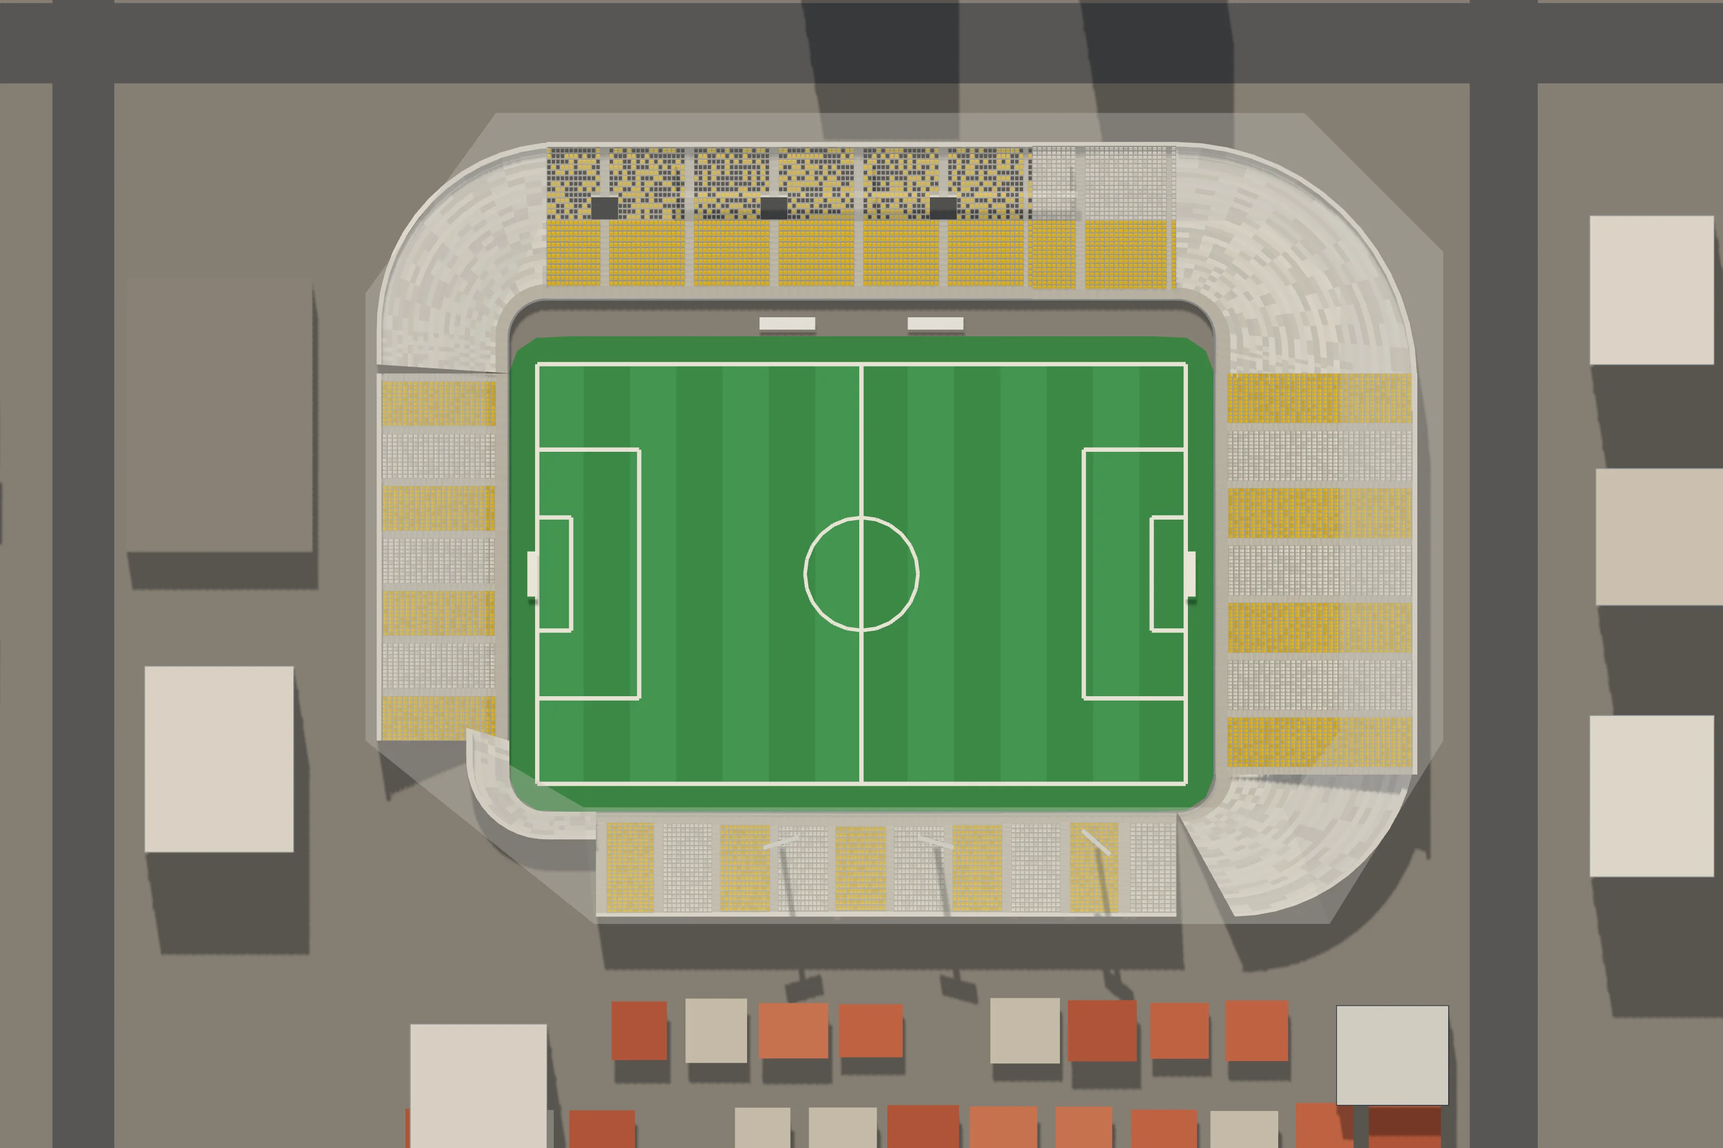
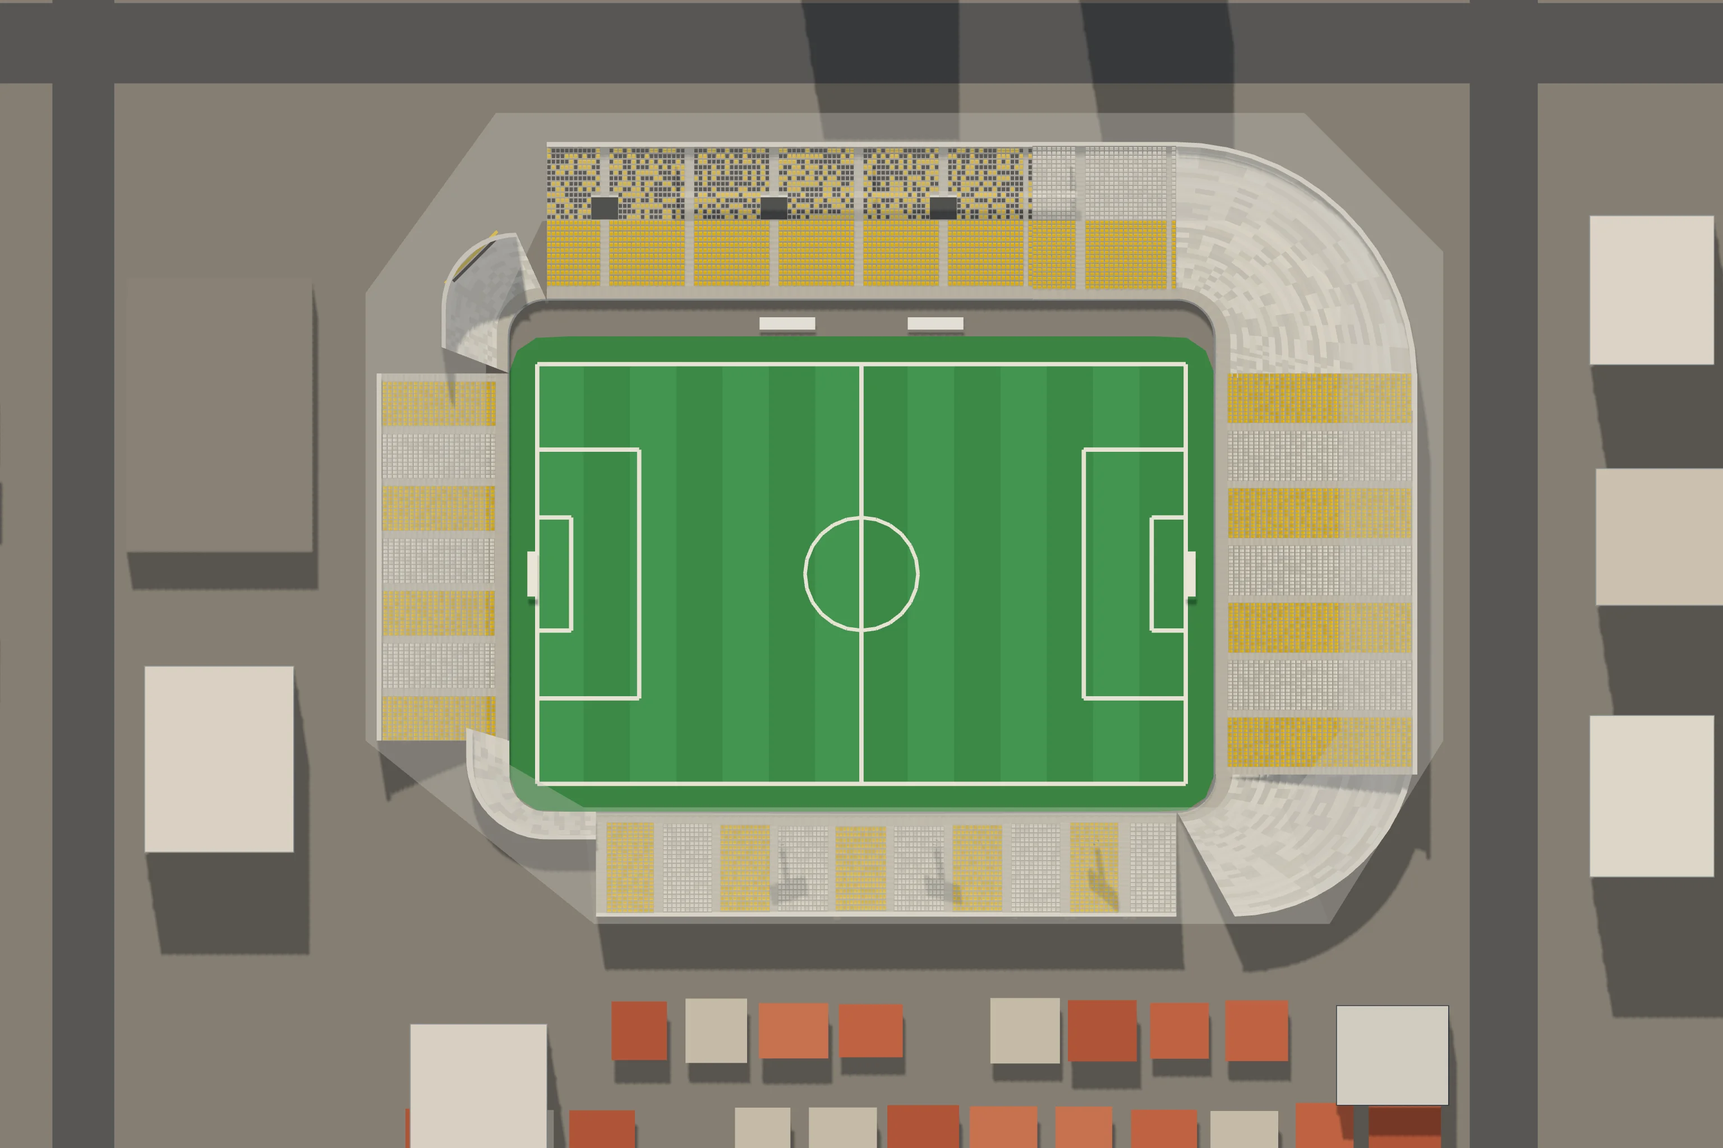
Heriberto Hülse: os refletores nascem do telhado; o canto menor ganha a parede e o telão
Claude-Session: https://claude.ai/code/session_019hwwMAyyP7ZAvyq6wYTetr

diff --git a/cenario3d/planta.html b/cenario3d/planta.html
@@ -289,24 +289,24 @@ button:focus-visible, input:focus-visible { outline: 2px solid var(--selecao); o
 
 <script type="module">
 import * as THREE from 'https://cdn.jsdelivr.net/npm/three@0.160.0/build/three.module.min.js';
-import { planoDaCasa, montarCasa, juntarBlocos, lugarDoDecalque, placasDoLote, segmentosDoMuro, carrosDoEstacionamento, portaoDoEstacionamento } from './js/casas3d.js?v=edb7f8e8c8';
-import { montarModelos } from './js/modelos3d.js?v=edb7f8e8c8';
-import { moldeDaPeca, comTransformador } from './js/props3d.js?v=edb7f8e8c8';
-import { ATLAS } from './js/modelos_atlas.js?v=edb7f8e8c8';
-import { Construtor, sorteio } from './js/construtor3d.js?v=edb7f8e8c8';
-import { gerarProposta, MAPAS, MAPA_DO_PORTE, RUA, LONGE_DO_ESTADIO_M, cisaoDaPraca, VAO_CIDADES_M, PRAIA_A_MAIS } from './js/proposta.js?v=edb7f8e8c8';
-import { montarSede, nivelQueCabe } from './js/sede3d.js?v=edb7f8e8c8';
-import { onibus as onibusDetalhe, juntar as juntarDetalhe } from './js/detalhe3d.js?v=edb7f8e8c8';
-import { montarLoteDeVeraneio, plantaDoLote, festaNoMundo, noMundoDoLote, cenaDaFesta, detalheDaCasaDaFesta } from './js/veraneio3d.js?v=edb7f8e8c8';
-import { montarCaravana, cenaDaCaravana } from './js/caravana3d.js?v=edb7f8e8c8';
-import { montarEstacao, montarTunel, montarCarro, TREM } from './js/metro3d.js?v=edb7f8e8c8';
-import { montarShopping, montarDelegacia, montarPraca, montarIgreja, montarEscola, montarHospital } from './js/equip3d.js?v=edb7f8e8c8';
-import { montarEquipAntigo, TIPOS_ANTIGOS } from './js/equip_antigo3d.js?v=edb7f8e8c8';
-import { PECAS_PRAIA, montarPecaDaPraia } from './js/praia3d.js?v=edb7f8e8c8';
-import { ESPECIES_LP, FLORA_LP, montarArvoreLowpoly, montarAsDez, facesDaArvore, especieLowpolyDe } from './js/arvores_lowpoly.js?v=edb7f8e8c8';
-import { plantarMato, montarMato, LONGE_M, DENSIDADE, LADRILHO_M } from './js/mato3d.js?v=edb7f8e8c8';
-import { ESTADIOS_JOGO, montarEstadioJogo, glbDoEstadio, cortarEstadio, plantaDoEstadio, modeloDaLotacao, nomeDoLetreiro, nomeComAcento, marcaDoEstadio, BOCAS_DOS_PORTOES, BILHETERIAS_DA_RUA } from './js/estadios3d.js?v=edb7f8e8c8';
-import { PECAS_AMBULANTES, montarAmbulante } from './js/ambulantes3d.js?v=edb7f8e8c8';
+import { planoDaCasa, montarCasa, juntarBlocos, lugarDoDecalque, placasDoLote, segmentosDoMuro, carrosDoEstacionamento, portaoDoEstacionamento } from './js/casas3d.js?v=bd4c5336a1';
+import { montarModelos } from './js/modelos3d.js?v=bd4c5336a1';
+import { moldeDaPeca, comTransformador } from './js/props3d.js?v=bd4c5336a1';
+import { ATLAS } from './js/modelos_atlas.js?v=bd4c5336a1';
+import { Construtor, sorteio } from './js/construtor3d.js?v=bd4c5336a1';
+import { gerarProposta, MAPAS, MAPA_DO_PORTE, RUA, LONGE_DO_ESTADIO_M, cisaoDaPraca, VAO_CIDADES_M, PRAIA_A_MAIS } from './js/proposta.js?v=bd4c5336a1';
+import { montarSede, nivelQueCabe } from './js/sede3d.js?v=bd4c5336a1';
+import { onibus as onibusDetalhe, juntar as juntarDetalhe } from './js/detalhe3d.js?v=bd4c5336a1';
+import { montarLoteDeVeraneio, plantaDoLote, festaNoMundo, noMundoDoLote, cenaDaFesta, detalheDaCasaDaFesta } from './js/veraneio3d.js?v=bd4c5336a1';
+import { montarCaravana, cenaDaCaravana } from './js/caravana3d.js?v=bd4c5336a1';
+import { montarEstacao, montarTunel, montarCarro, TREM } from './js/metro3d.js?v=bd4c5336a1';
+import { montarShopping, montarDelegacia, montarPraca, montarIgreja, montarEscola, montarHospital } from './js/equip3d.js?v=bd4c5336a1';
+import { montarEquipAntigo, TIPOS_ANTIGOS } from './js/equip_antigo3d.js?v=bd4c5336a1';
+import { PECAS_PRAIA, montarPecaDaPraia } from './js/praia3d.js?v=bd4c5336a1';
+import { ESPECIES_LP, FLORA_LP, montarArvoreLowpoly, montarAsDez, facesDaArvore, especieLowpolyDe } from './js/arvores_lowpoly.js?v=bd4c5336a1';
+import { plantarMato, montarMato, LONGE_M, DENSIDADE, LADRILHO_M } from './js/mato3d.js?v=bd4c5336a1';
+import { ESTADIOS_JOGO, montarEstadioJogo, glbDoEstadio, cortarEstadio, plantaDoEstadio, modeloDaLotacao, nomeDoLetreiro, nomeComAcento, marcaDoEstadio, BOCAS_DOS_PORTOES, BILHETERIAS_DA_RUA } from './js/estadios3d.js?v=bd4c5336a1';
+import { PECAS_AMBULANTES, montarAmbulante } from './js/ambulantes3d.js?v=bd4c5336a1';
 
 const $ = id => document.getElementById(id);
 const aviso = $('aviso');
@@ -323,25 +323,25 @@ function carregarScript(src) {
 }
 window.TO = window.TO || { dados: {} };
 try {
-  await carregarScript('dados/torcidas.js?v=edb7f8e8c8');
-  await carregarScript('dados/times.js?v=edb7f8e8c8');
-  await carregarScript('dados/cena_estadio.js?v=edb7f8e8c8');
-  await carregarScript('dados/cidades.js?v=edb7f8e8c8');
-  await carregarScript('dados/estadios.js?v=edb7f8e8c8');
-  await carregarScript('dados/escudos.js?v=edb7f8e8c8');
+  await carregarScript('dados/torcidas.js?v=bd4c5336a1');
+  await carregarScript('dados/times.js?v=bd4c5336a1');
+  await carregarScript('dados/cena_estadio.js?v=bd4c5336a1');
+  await carregarScript('dados/cidades.js?v=bd4c5336a1');
+  await carregarScript('dados/estadios.js?v=bd4c5336a1');
+  await carregarScript('dados/escudos.js?v=bd4c5336a1');
   /* o manifesto das faixas de verdade (a arte do dono, 29/09/2026): a arquibancada estende a da torcida */
-  await carregarScript('dados/faixas.js?v=edb7f8e8c8').catch(() => {});
+  await carregarScript('dados/faixas.js?v=bd4c5336a1').catch(() => {});
   /* O DOMÍNIO DOS BAIRROS (o dono, 30/09/2026): as sedes repetidas num
      bairro saem espalhadas (nos dados, na carga) e os bares ganham o
      bairro deles — o mesmo módulo do jogo (js/mundo/dominio.js) */
-  await carregarScript('js/dominio.js?v=edb7f8e8c8').catch(() => {});
+  await carregarScript('js/dominio.js?v=bd4c5336a1').catch(() => {});
 } catch (e) {
   aviso.textContent = 'A planta da cidade não carregou (' + e.message + '). Recarregue a página.';
   throw e;
 }
 /* os PNG dos escudos, embutidos (o montar.sh gera): sem o arquivo, o
    caminho vai direto pra img/escudos/ */
-await carregarScript('dados/escudos_embutidos.js?v=edb7f8e8c8').catch(() => {});
+await carregarScript('dados/escudos_embutidos.js?v=bd4c5336a1').catch(() => {});
 const P = TO.dados.plantaEstadio, K = P.CIDADE, M = P.METRO, CALC = K.CALC;
 /* o mapa da vez (o pequeno, o médio ou o grande, montado pra praça
    escolhida): quem monta é usarMapa, lá embaixo */

diff --git a/cenario3d/dados/estadios_cenas.js b/cenario3d/dados/estadios_cenas.js
@@ -3262,8 +3262,8 @@ window.__ESTADIOS = {
    "visitante": 3
   },
   "foto": {
-   "imagem": "img/cenas/estadio_heriberto_hulse.webp?v=a4da3d63",
-   "mascara": "384;384;384;384;384;384;384;384;384;384;384;384;384;384;384;384;384;384;384;384;384;384;384;384;384;384;384;384;384;384;384;384;118,148,118;111,162,111;107,170,107;104,176,104;101,182,101;99,186,99;97,190,97;95,194,95;93,198,93;93,199,92;94,200,90;95,200,89;96,200,88;95,202,87;94,204,86;93,206,85;93,207,84;92,209,83;91,211,82;91,212,81;90,214,80;90,215,79;89,216,79;89,217,78;88,219,77;88,219,77;87,221,76;87,222,75;87,222,75;86,224,74;86,225,73;86,225,73;86,226,72;85,227,72;85,35,144,48,72;86,32,148,47,71;88,28,152,45,71;87,28,154,44,71;87,27,156,44,70;87,27,156,44,70;86,27,158,43,70;86,27,158,43,70;86,27,158,43,70;86,27,158,44,69;85,28,158,44,69;85,28,158,44,69;85,28,158,44,69;85,28,158,44,69;85,28,158,44,69;85,28,158,44,69;85,28,158,44,69;85,28,158,44,69;85,28,158,44,69;85,28,158,44,69;85,28,158,44,69;85,28,158,44,69;85,28,158,44,69;85,28,158,44,69;85,28,158,44,69;85,28,158,44,69;85,28,158,44,69;85,28,158,44,69;85,28,158,44,69;85,28,158,44,69;85,28,158,44,69;85,28,158,44,69;85,28,158,44,69;85,28,158,44,69;85,28,158,44,69;85,28,158,44,69;85,28,158,44,69;85,28,158,44,69;85,28,158,44,69;85,28,158,44,69;85,28,158,44,69;85,28,158,44,69;85,28,158,44,69;85,28,158,44,69;85,28,158,44,69;85,28,158,44,69;85,28,158,44,69;85,28,158,44,69;85,28,158,44,69;85,28,158,44,69;85,28,158,44,69;85,28,158,44,69;85,28,158,44,69;85,28,158,44,69;85,28,158,44,69;85,28,158,44,69;85,28,158,44,69;85,28,158,44,69;85,28,158,44,69;85,28,158,44,69;85,28,158,44,69;85,28,158,44,69;85,28,158,44,69;85,28,158,44,69;85,28,158,44,69;85,28,158,44,69;85,28,158,44,69;85,28,158,44,69;85,28,158,44,69;85,28,158,44,69;85,28,158,44,69;85,28,158,44,69;85,28,158,44,69;85,28,158,44,69;85,28,158,44,69;85,28,158,44,69;85,28,158,44,69;85,28,158,44,69;85,28,158,44,69;85,28,158,44,69;85,28,158,44,69;85,28,158,44,69;85,28,158,44,69;85,28,158,44,69;85,28,158,44,69;85,28,158,44,69;85,28,158,44,69;85,28,158,44,69;85,28,158,44,69;85,28,158,44,69;85,28,158,44,69;85,28,158,44,69;85,28,158,44,69;85,28,158,44,69;85,28,158,44,69;85,28,158,44,69;85,28,158,44,69;85,28,158,44,69;85,28,158,44,69;85,28,158,44,69;85,28,158,44,69;85,28,158,44,69;85,28,158,44,69;85,28,158,44,69;85,17,3,8,158,44,69;85,15,5,8,158,44,69;85,13,7,8,158,44,69;85,11,9,8,158,44,69;85,9,11,8,158,44,69;85,6,15,7,158,44,69;85,4,17,8,156,45,69;85,2,20,7,156,45,69;107,8,154,46,69;108,8,152,47,69;109,9,148,49,69;109,12,143,50,70;111,203,70;112,202,70;114,200,70;116,198,70;120,149,1,43,71;126,187,71;124,189,71;123,150,1,38,72;122,190,72;121,191,72;120,157,1,25,2,6,73;119,183,5,4,73;118,183,8,1,74;117,164,1,17,85;116,182,86;114,169,1,12,88;113,168,5,9,89;112,168,7,6,91;111,166,11,3,93;110,165,109;112,160,112;118,148,118;384;384;384;384;384;384;384;384;384;384;384;384;384;384;384;384;384;384;384;384;384;384;384;384;384;384;384;384;384;384;384;384;384;384;384;384;384;384;384;384;384;384;384;384;384;384;384;384;384;384;384;384"
+   "imagem": "img/cenas/estadio_heriberto_hulse.webp?v=17258e39",
+   "mascara": "384;384;384;384;384;384;384;384;384;384;384;384;384;384;384;384;384;384;384;384;384;384;384;384;384;384;384;384;384;384;384;384;118,148,118;111,162,111;107,170,107;104,176,104;101,182,101;99,186,99;97,190,97;95,194,95;93,198,93;93,199,92;94,200,90;95,200,89;96,200,88;97,200,87;98,200,86;99,200,85;101,199,84;102,199,83;103,199,82;104,199,81;105,199,80;106,199,79;107,198,79;106,200,78;104,203,77;103,204,77;102,206,76;102,207,75;101,208,75;101,209,74;100,211,73;100,211,73;100,212,72;99,213,72;99,21,144,48,72;99,19,148,47,71;99,17,152,45,71;87,2,10,16,154,44,71;87,4,8,15,156,44,70;87,6,6,15,156,44,70;86,8,5,14,158,43,70;86,10,3,14,158,43,70;86,12,1,14,158,43,70;86,27,158,44,69;85,28,158,44,69;85,28,158,44,69;85,28,158,44,69;85,28,158,44,69;85,28,158,44,69;85,28,158,44,69;85,28,158,44,69;85,28,158,44,69;85,28,158,44,69;85,28,158,44,69;85,28,158,44,69;85,28,158,44,69;85,28,158,44,69;85,28,158,44,69;85,28,158,44,69;85,28,158,44,69;85,28,158,44,69;85,28,158,44,69;85,28,158,44,69;85,28,158,44,69;85,28,158,44,69;85,28,158,44,69;85,28,158,44,69;85,28,158,44,69;85,28,158,44,69;85,28,158,44,69;85,28,158,44,69;85,28,158,44,69;85,28,158,44,69;85,28,158,44,69;85,28,158,44,69;85,28,158,44,69;85,28,158,44,69;85,28,158,44,69;85,28,158,44,69;85,28,158,44,69;85,28,158,44,69;85,28,158,44,69;85,28,158,44,69;85,28,158,44,69;85,28,158,44,69;85,28,158,44,69;85,28,158,44,69;85,28,158,44,69;85,28,158,44,69;85,28,158,44,69;85,28,158,44,69;85,28,158,44,69;85,28,158,44,69;85,28,158,44,69;85,28,158,44,69;85,28,158,44,69;85,28,158,44,69;85,28,158,44,69;85,28,158,44,69;85,28,158,44,69;85,28,158,44,69;85,28,158,44,69;85,28,158,44,69;85,28,158,44,69;85,28,158,44,69;85,28,158,44,69;85,28,158,44,69;85,28,158,44,69;85,28,158,44,69;85,28,158,44,69;85,28,158,44,69;85,28,158,44,69;85,28,158,44,69;85,28,158,44,69;85,28,158,44,69;85,28,158,44,69;85,28,158,44,69;85,28,158,44,69;85,28,158,44,69;85,28,158,44,69;85,28,158,44,69;85,28,158,44,69;85,28,158,44,69;85,28,158,44,69;85,28,158,44,69;85,28,158,44,69;85,28,158,44,69;85,28,158,44,69;85,28,158,44,69;85,28,158,44,69;85,28,158,44,69;85,28,158,44,69;85,28,158,44,69;85,28,158,44,69;85,28,158,44,69;85,28,158,44,69;85,28,158,44,69;85,28,158,44,69;85,17,3,8,158,44,69;85,15,5,8,158,44,69;85,13,7,8,158,44,69;85,11,9,8,158,44,69;85,9,11,8,158,44,69;85,6,15,7,158,44,69;85,4,17,8,156,45,69;85,2,20,7,156,45,69;107,8,154,46,69;108,8,152,47,69;109,9,148,49,69;109,12,143,50,70;111,203,70;112,202,70;114,200,70;116,198,70;120,149,1,43,71;126,187,71;124,189,71;123,150,1,38,72;122,190,72;121,191,72;120,157,1,25,2,6,73;119,183,5,4,73;118,183,8,1,74;117,164,1,17,85;116,182,86;114,169,1,12,88;113,168,5,9,89;112,168,7,6,91;111,166,11,3,93;110,165,109;112,160,112;118,148,118;384;384;384;384;384;384;384;384;384;384;384;384;384;384;384;384;384;384;384;384;384;384;384;384;384;384;384;384;384;384;384;384;384;384;384;384;384;384;384;384;384;384;384;384;384;384;384;384;384;384;384;384"
   },
   "cena": {
    "nome": "Heriberto Hülse",

diff --git a/cenario3d/js/jogo2d.js b/cenario3d/js/jogo2d.js
@@ -17,7 +17,7 @@
    cartão da partida cai perto da hora da bola e nada do que conta o
    placar passa na frente dele.
    ========================================================= */
-import { CASCA } from './jogo_casca.js?v=edb7f8e8c8';
+import { CASCA } from './jogo_casca.js?v=bd4c5336a1';
 
 const carregarScript = src => new Promise((ok, erro) => {
   const s = document.createElement('script');
@@ -31,17 +31,17 @@ async function montarJogo() {
   caixa.innerHTML = CASCA;
   while (caixa.firstChild) document.body.appendChild(caixa.firstChild);
   /* os escudos, as fotos das praças e as bandeiras embutidos (o `IMG()` do jogo procura aqui antes do caminho) */
-  await carregarScript('dados/imagens_jogo.js?v=edb7f8e8c8').catch(() => {});
+  await carregarScript('dados/imagens_jogo.js?v=bd4c5336a1').catch(() => {});
   /* os estádios low-poly das cenas (ferramentas/estadios/assar.js): antes do jogo, que monta as cenas quando carrega */
-  await carregarScript('dados/estadios_cenas.js?v=edb7f8e8c8').catch(() => {});
+  await carregarScript('dados/estadios_cenas.js?v=bd4c5336a1').catch(() => {});
   /* sem o rolo do feed: a tela entre os jogos é o portal */
   window.TO = window.TO || {};
   TO.semFeed = true;
-  await carregarScript('js/jogo.js?v=edb7f8e8c8');
-  await carregarScript('js/portal.js?v=edb7f8e8c8').catch(err => console.error('o portal não carregou:', err));
+  await carregarScript('js/jogo.js?v=bd4c5336a1');
+  await carregarScript('js/portal.js?v=bd4c5336a1').catch(err => console.error('o portal não carregou:', err));
   /* o boneco das cenas de imagem (os dois níveis afinados, em base64) */
-  if (!TO.dados.bonecoPertoGLB) await carregarScript('dados/boneco_glb.js?v=edb7f8e8c8').catch(() => {});
-  await import('./bonecos3_global.js?v=edb7f8e8c8').catch(err => console.error('o boneco das cenas não carregou:', err));
+  if (!TO.dados.bonecoPertoGLB) await carregarScript('dados/boneco_glb.js?v=bd4c5336a1').catch(() => {});
+  await import('./bonecos3_global.js?v=bd4c5336a1').catch(err => console.error('o boneco das cenas não carregou:', err));
   ligar();
 }
 

diff --git a/cenario3d/jogo.html b/cenario3d/jogo.html
@@ -9,16 +9,16 @@
 <link rel="preconnect" href="https://fonts.googleapis.com">
 <link rel="preconnect" href="https://fonts.gstatic.com" crossorigin>
 <link rel="stylesheet" href="https://fonts.googleapis.com/css2?family=Barlow+Semi+Condensed:wght@500;600;700&family=Barlow:wght@400;500;600&family=IBM+Plex+Mono:wght@400;500&display=swap">
-<link rel="stylesheet" href="css/jogo.css?v=edb7f8e8c8">
-<link rel="stylesheet" href="css/jogo3d.css?v=edb7f8e8c8">
-<link rel="stylesheet" href="css/portal.css?v=edb7f8e8c8">
-<link rel="stylesheet" href="css/telas3d.css?v=edb7f8e8c8">
+<link rel="stylesheet" href="css/jogo.css?v=bd4c5336a1">
+<link rel="stylesheet" href="css/jogo3d.css?v=bd4c5336a1">
+<link rel="stylesheet" href="css/portal.css?v=bd4c5336a1">
+<link rel="stylesheet" href="css/telas3d.css?v=bd4c5336a1">
 <style>
 [hidden] { display: none !important; }
 html, body { height: 100%; margin: 0; }
 </style>
 </head>
 <body class="jogo3d">
-<script type="module" src="js/jogo2d.js?v=edb7f8e8c8"></script>
+<script type="module" src="js/jogo2d.js?v=bd4c5336a1"></script>
 </body>
 </html>

diff --git a/cenario3d/js/casas3d.js b/cenario3d/js/casas3d.js
@@ -60,10 +60,10 @@
    avançam (`rec`), e o letreiro, a pixação e a falha de reboco do
    bairro vão pro plano dessa parede, não pro da divisa.
    ========================================================= */
-import { Construtor, METRO, mureta, toldo, arSplit, sorteio } from './construtor3d.js?v=edb7f8e8c8';
-import { ATLAS } from './modelos_atlas.js?v=edb7f8e8c8';
+import { Construtor, METRO, mureta, toldo, arSplit, sorteio } from './construtor3d.js?v=bd4c5336a1';
+import { ATLAS } from './modelos_atlas.js?v=bd4c5336a1';
 /* as lojas do assalto (lojas3d.js): modelos de lote como os outros */
-import { TIPOS_LOJA, REC_LOJA, placaDaLoja } from './lojas3d.js?v=edb7f8e8c8';
+import { TIPOS_LOJA, REC_LOJA, placaDaLoja } from './lojas3d.js?v=bd4c5336a1';
 
 /* o arquivo de cada folha, pro bairro montar o material dele */
 export const arquivoDaFolha = folha => ATLAS[folha].arquivo;

diff --git a/cenario3d/js/ambulantes3d.js b/cenario3d/js/ambulantes3d.js
@@ -27,8 +27,8 @@
    que a planta acha o lugar dela na calçada do estádio. `sol`: o meio e
    o raio da copa ([x, z, r]), que o mapa desenha de perto.
    ========================================================= */
-import { Construtor, noMundo, placasNoMundo, sorteio, esfera, unit } from './construtor3d.js?v=edb7f8e8c8';
-import { Lugar, barra, tubo, cilindro, bloco, pano, toro, guardaSol, cadeiraPlastica, isopor, banqueta, CORES_SOL } from './praia3d.js?v=edb7f8e8c8';
+import { Construtor, noMundo, placasNoMundo, sorteio, esfera, unit } from './construtor3d.js?v=bd4c5336a1';
+import { Lugar, barra, tubo, cilindro, bloco, pano, toro, guardaSol, cadeiraPlastica, isopor, banqueta, CORES_SOL } from './praia3d.js?v=bd4c5336a1';
 
 const AQUI = Lugar();
 const escolha = (rnd, lista) => lista[Math.floor(rnd() * lista.length) % lista.length];

diff --git a/cenario3d/js/praia3d.js b/cenario3d/js/praia3d.js
@@ -36,8 +36,8 @@
    cadeira e a mesa de plástico) servem também os ambulantes da porta do
    estádio (ambulantes3d.js), na mesma folha.
    ========================================================= */
-import { Construtor, METRO, lerp, sub, soma, esc, unit, pv, noMundo, placasNoMundo, sorteio, varrer, esfera } from './construtor3d.js?v=edb7f8e8c8';
-import { montarArvoreLowpoly } from './arvores_lowpoly.js?v=edb7f8e8c8';
+import { Construtor, METRO, lerp, sub, soma, esc, unit, pv, noMundo, placasNoMundo, sorteio, varrer, esfera } from './construtor3d.js?v=bd4c5336a1';
+import { montarArvoreLowpoly } from './arvores_lowpoly.js?v=bd4c5336a1';
 
 const ALTO = [0, 1, 0];
 const escolha = (rnd, lista) => lista[Math.floor(rnd() * lista.length) % lista.length];

diff --git a/cenario3d/js/modelos3d.js b/cenario3d/js/modelos3d.js
@@ -32,8 +32,8 @@
    requadro da janela, toldo, ar-condicionado. O resto é pintura.
    ========================================================= */
 import * as THREE from 'https://cdn.jsdelivr.net/npm/three@0.160.0/build/three.module.min.js';
-import { ATLAS } from './modelos_atlas.js?v=edb7f8e8c8';
-import { Construtor, METRO, lerp, sub, soma, esc, pv, pe, unit, recuoPoligono, mureta, toldo, arSplit } from './construtor3d.js?v=edb7f8e8c8';
+import { ATLAS } from './modelos_atlas.js?v=bd4c5336a1';
+import { Construtor, METRO, lerp, sub, soma, esc, pv, pe, unit, recuoPoligono, mureta, toldo, arSplit } from './construtor3d.js?v=bd4c5336a1';
 
 /* =======================================================
    1. A IGREJA MATRIZ

diff --git a/cenario3d/js/props3d.js b/cenario3d/js/props3d.js
@@ -26,8 +26,8 @@
    poste vira uma haste de longe; o resto, que é miúdo, some.
    ========================================================= */
 import * as THREE from 'https://cdn.jsdelivr.net/npm/three@0.160.0/build/three.module.min.js';
-import { ATLAS } from './modelos_atlas.js?v=edb7f8e8c8';
-import { Construtor, METRO, lerp } from './construtor3d.js?v=edb7f8e8c8';
+import { ATLAS } from './modelos_atlas.js?v=bd4c5336a1';
+import { Construtor, METRO, lerp } from './construtor3d.js?v=bd4c5336a1';
 
 /* as cores que o vértice dá pro que sai claro na folha */
 const COR_CESTO = ['#6aa33a', '#d2b53a', '#3f82ad', '#8b6a3c', '#b8452f'];

diff --git a/cenario3d/js/mato3d.js b/cenario3d/js/mato3d.js
@@ -19,8 +19,8 @@
 
    Tudo em metros; `noMundo` converte. A mesma semente dá o mesmo mato.
    ========================================================= */
-import { METRO, noMundo, sorteio } from './construtor3d.js?v=edb7f8e8c8';
-import { facesDaArvore, especieLowpolyDe } from './arvores_lowpoly.js?v=edb7f8e8c8';
+import { METRO, noMundo, sorteio } from './construtor3d.js?v=bd4c5336a1';
+import { facesDaArvore, especieLowpolyDe } from './arvores_lowpoly.js?v=bd4c5336a1';
 
 /* a área de chão de cada árvore (m²), por lugar */
 export const DENSIDADE = { mata: 70, cerrado: 200, caatinga: 150, sul: 90, praia: 120, cidade: 250 };

diff --git a/cenario3d/js/bonecos3_global.js b/cenario3d/js/bonecos3_global.js
@@ -14,7 +14,7 @@
    DOMContentLoaded: quem usa (a ponte, numa cena aberta pelo jogador)
    chega muito depois.
    ========================================================= */
-import { montar, desenharDeCima, desenharVitrine, limparDeCima, fotoDoTrofeu, fotoDaBriga, fotoDaCena, perdeu, bonecos } from './bonecos3_cena.js?v=edb7f8e8c8';
+import { montar, desenharDeCima, desenharVitrine, limparDeCima, fotoDoTrofeu, fotoDaBriga, fotoDaCena, perdeu, bonecos } from './bonecos3_cena.js?v=bd4c5336a1';
 
 window.TO = window.TO || {};
 TO.diaJogo = TO.diaJogo || {};

diff --git a/cenario3d/js/bonecos3_cena.js b/cenario3d/js/bonecos3_cena.js
@@ -103,7 +103,7 @@
       numa fase sorteada (quem sai junto não sai no mesmo pé).
    ========================================================= */
 import * as THREE from 'https://cdn.jsdelivr.net/npm/three@0.160.0/build/three.module.min.js';
-import { GLTFLoader, SkeletonUtils } from './GLTFLoader.js?v=edb7f8e8c8';
+import { GLTFLoader, SkeletonUtils } from './GLTFLoader.js?v=bd4c5336a1';
 
 /* onde o modelo mora, quando não vem embutido em base64: o detalhado
    (o do Blender) e os dois níveis afinados dele (ferramentas/afinar_boneco.mjs) */
